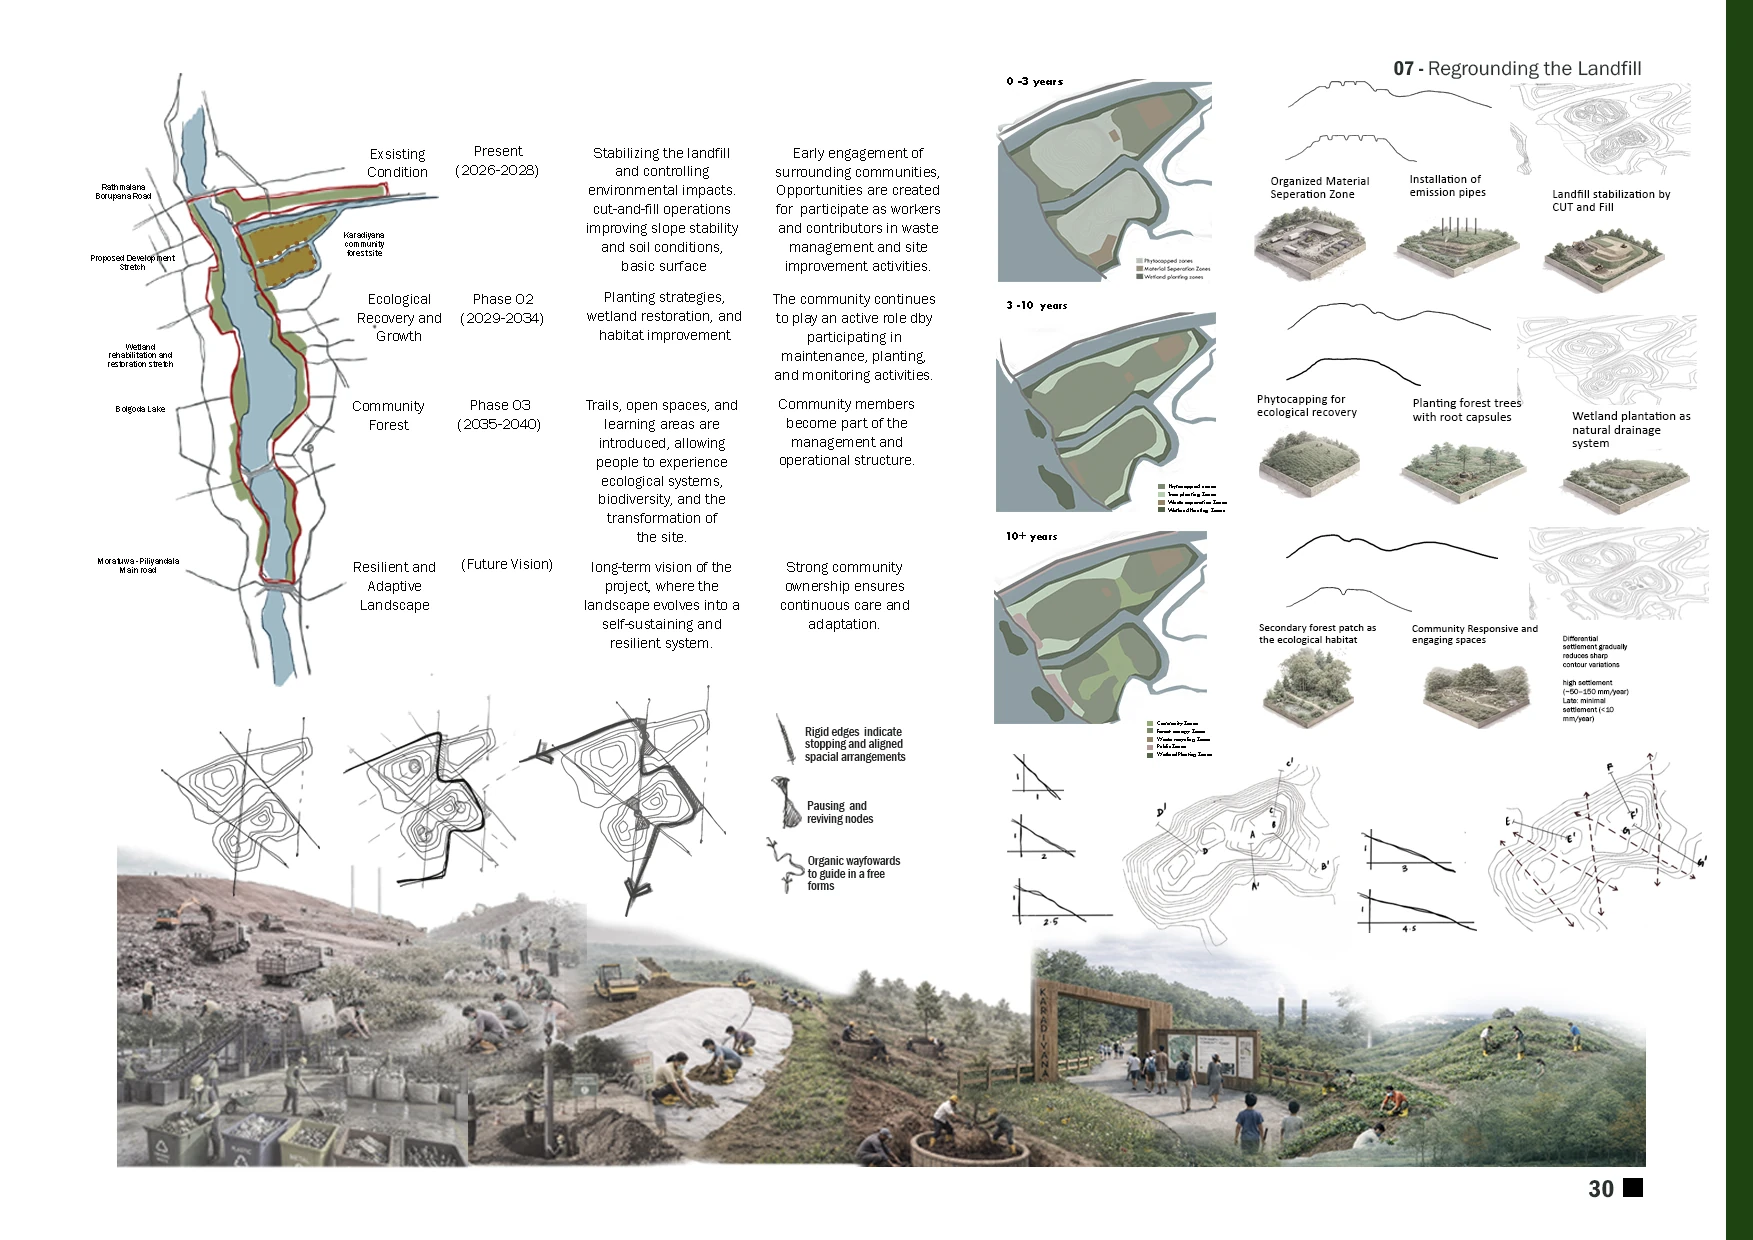
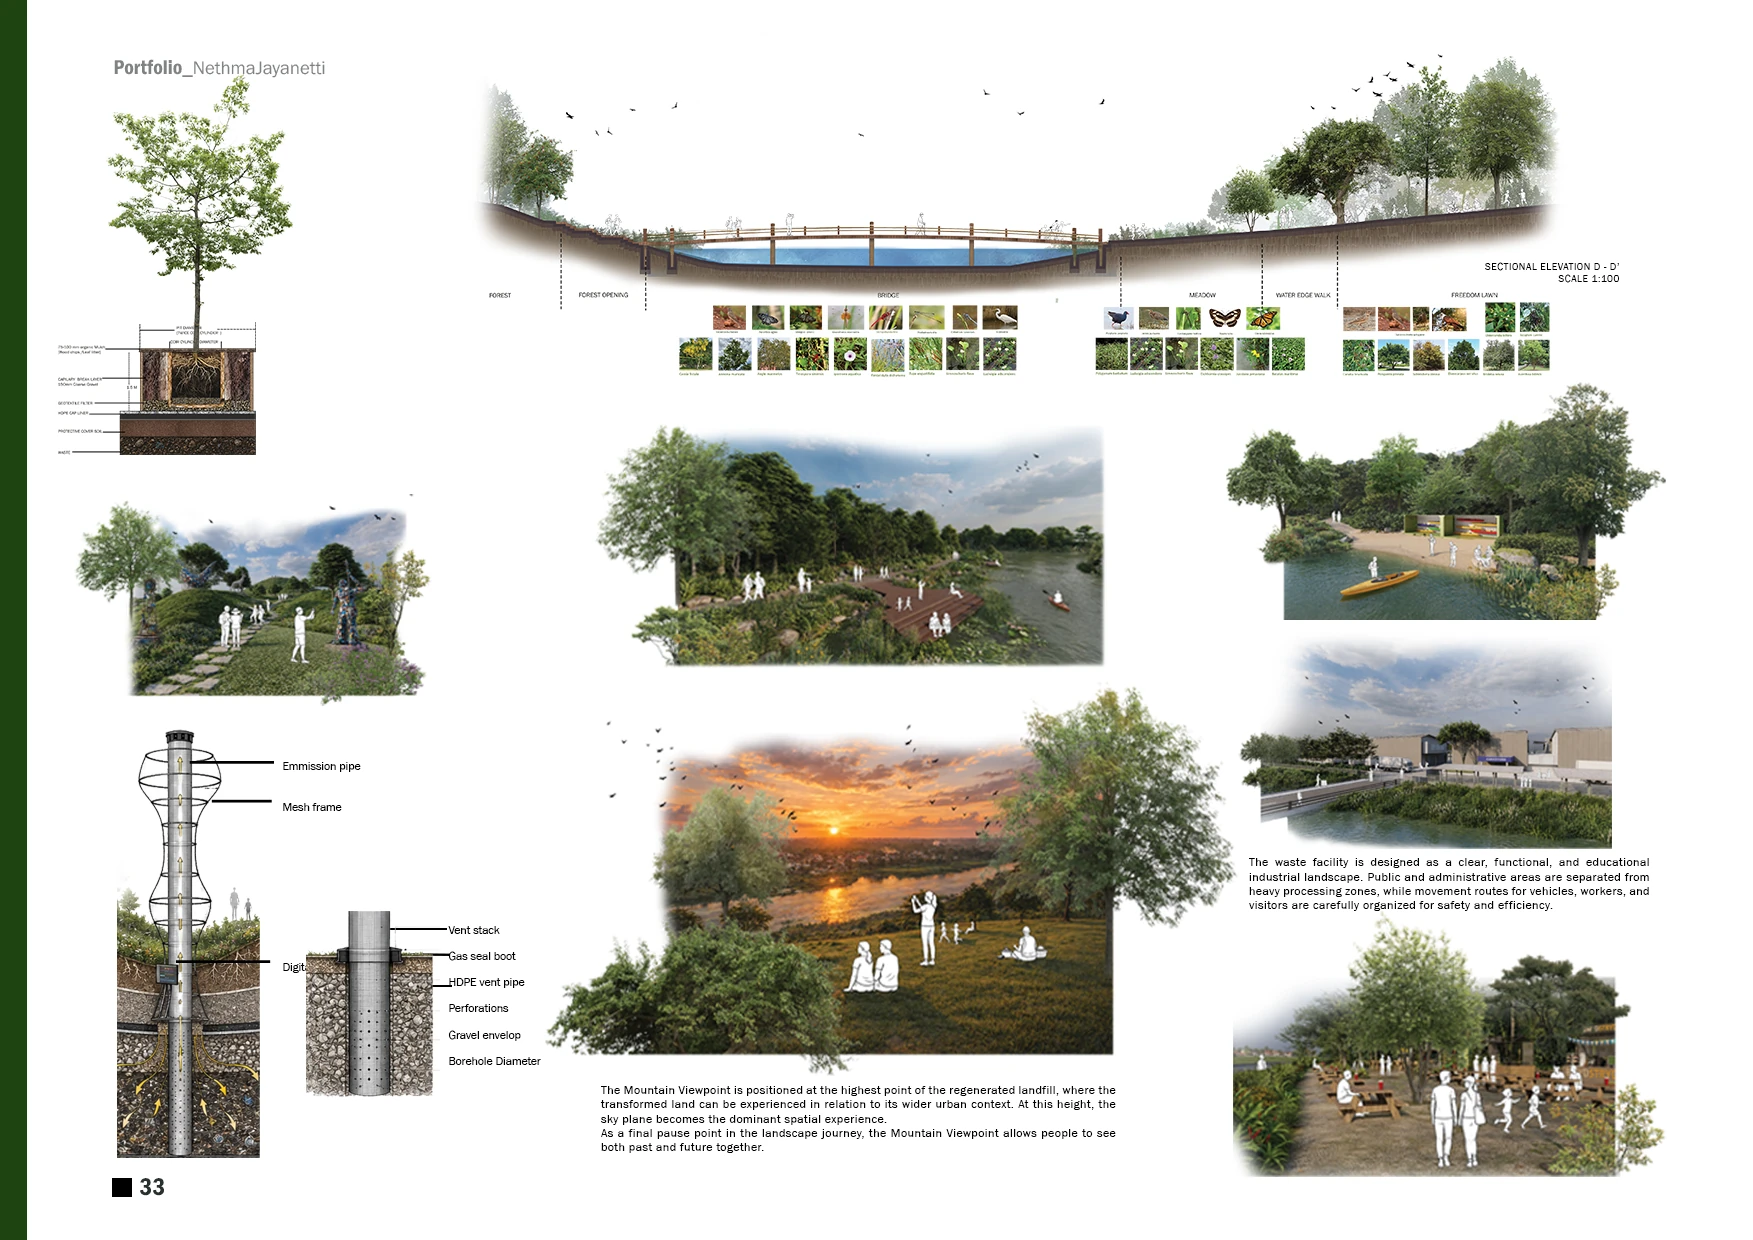
page 33

diff --git a/app.js b/app.js
@@ -1,7 +1,7 @@
 /* All assets use relative file paths so index.html also works with file://. */
 (() => {
   'use strict';
-  const pages = Array.from({ length: 39 }, (_, i) => `pages/page-${String(i + 1).padStart(2, '0')}.webp?v=faf8ce4b44b1`);
+  const pages = Array.from({ length: 39 }, (_, i) => `pages/page-${String(i + 1).padStart(2, '0')}.webp?v=20261019-p33`);
   const $ = id => document.getElementById(id);
   const select = $('page-select');
   const reader = $('reader');

diff --git a/index.html b/index.html
@@ -9,7 +9,7 @@
   <link rel="preload" as="image" href="pages/page-01.webp?v=faf8ce4b44b1" fetchpriority="high">
   <script src="page-flip.browser.js?v=3" defer></script>
   <script src="sounds/page-flip-data.js" defer></script>
-  <script src="app.js?v=11" defer></script>
+  <script src="app.js?v=12" defer></script>
 </head>
 <body>
   <main>
